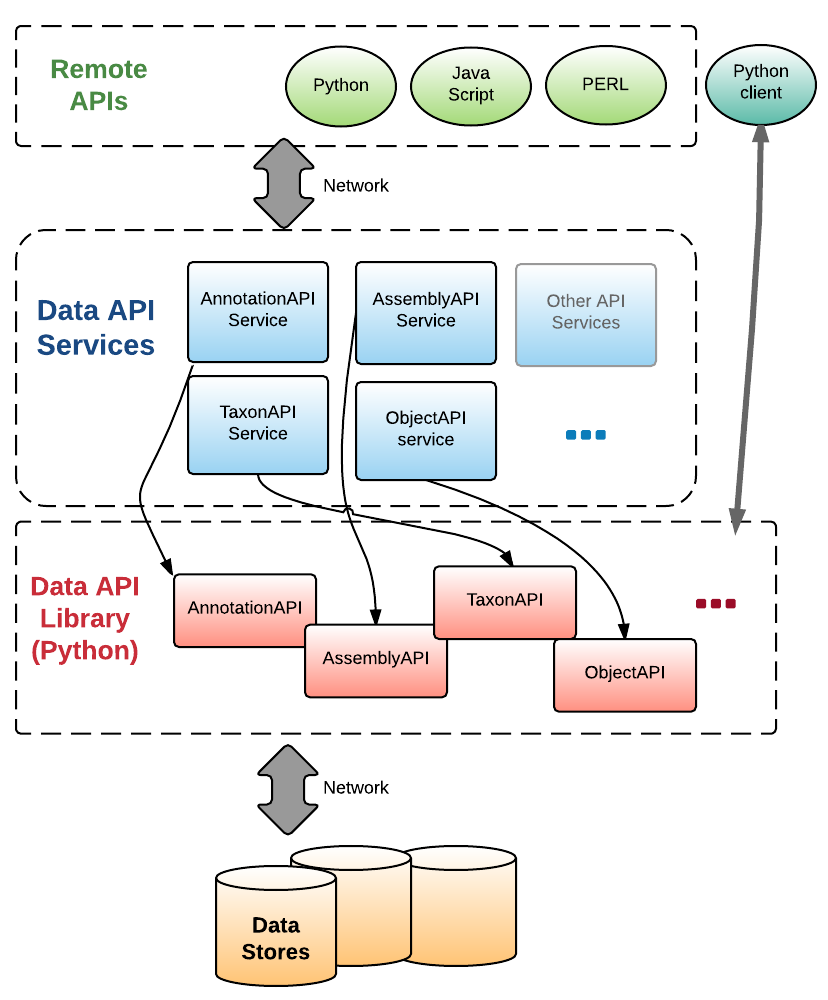
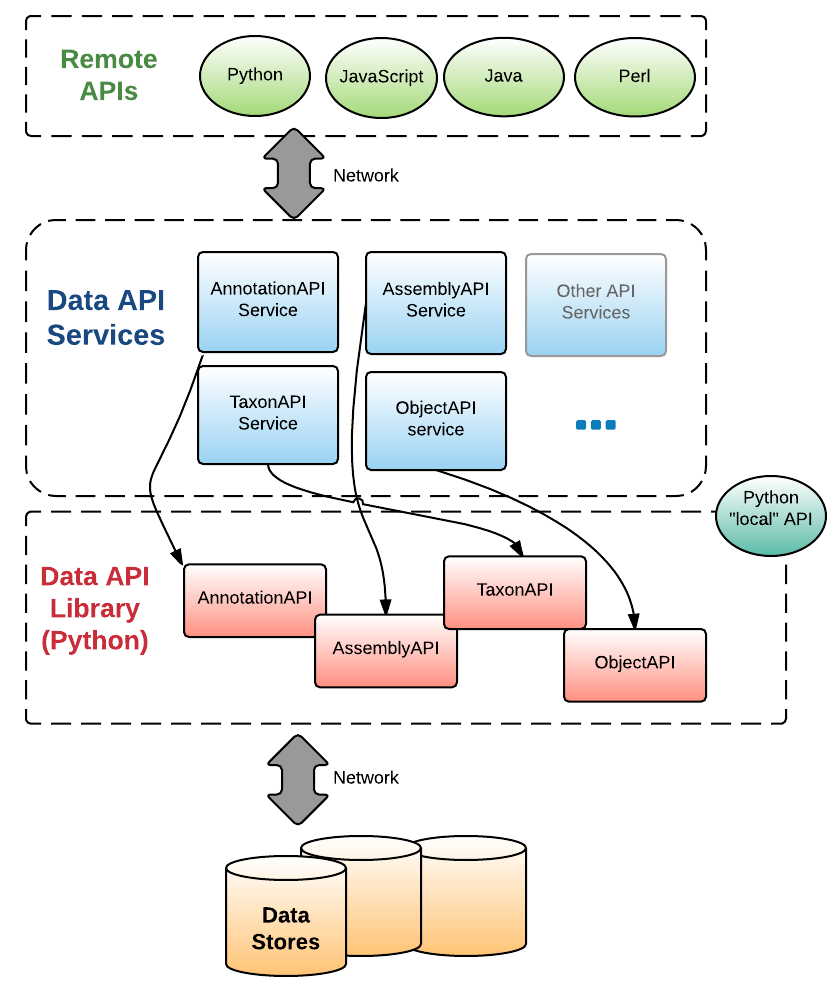
updated diagram and hello,world example

diff --git a/lib/doekbase/data_api/tests/examples/hello_world.py b/lib/doekbase/data_api/tests/examples/hello_world.py
@@ -1,0 +1,36 @@
+from doekbase.data_api.taxonomy.taxon.api import TaxonAPI
+from doekbase.data_api.sequence.assembly.api import AssemblyAPI
+
+# Set up to connect to KBase services
+auth_token = ""  # empty token is OK for public data
+services = {'workspace_service_url': 'http://ci.kbase.us/services/ws/'}
+
+if __name__ == '__main__':
+
+    #########
+    # Taxon #
+    #########
+
+    # Connect to the Taxon API
+    object_id = '993/616059/2'  # format -> workspace/object/version
+    obj = TaxonAPI(ref=object_id, services=services, token=auth_token)
+    # Retrieve some information from it
+    name = obj.get_scientific_name()
+    # Tell the world
+    print("Hello, World! Taxon {} is called {}".format(object_id, name))
+
+    ############
+    # Assembly #
+    ############
+
+    # Connect to the Assembly API
+    object_id = '1013/92/2'  # format -> workspace/object/version
+    obj = AssemblyAPI(ref=object_id, services=services, token=auth_token)
+    # Retrieve some information from it
+    info = obj.get_stats()
+    # Tell the world
+    info['oid'] = object_id
+    print("Hello, World! Assembly {oid} has the following statistics:\n"
+          "  GC content  : {gc_content}\n"
+          "  DNA size    : {dna_size}\n"
+          "  Num. contigs: {num_contigs}".format(**info))

diff --git a/docs/index.rst b/docs/index.rst
@@ -17,9 +17,7 @@ KBase Data API documentation
 ============================
 The Data API provides a unified entry point to retrieve and, eventually,
 store KBase data objects. This page covers concepts and installation instructions.
-For usage see the individual API pages for the :ref:`annotation_api`, :ref:`assembly_api` , and :ref:`taxon_api`.
-
-Developers should read the :ref:`developer_notes`.
+For usage, see the API pages for each data type: :ref:`annotation_api`, :ref:`assembly_api`, and :ref:`taxon_api`.
 
 .. Skip this for now: contents:: Contents
 
@@ -27,7 +25,7 @@ Developers should read the :ref:`developer_notes`.
 Concepts
 --------
 
-The Data API is multi-language, with the primary language implementation being Python. We are using Thrift to generate consistent language APIs in other languages. In all languages except Python, the implementation is a client/server, with a Python-based server and the other language as the client. The diagram below summarizes this design.
+The Data API is multi-language, with the library that implements all the behavior written in Python. We are using Thrift to generate consistent language APIs in other languages. For Python, you can import and use the library to connect directly to the data store. For other languages (and Python, too, if you choose), we use an RPC model, implemented as a thin layer of wrapper code around the Thrift-generated client to communicate with the Thrift-generated Data API `services`, which use the Python library to do its work. The diagram below summarizes this design.
 
 .. _overview_diagram:
 
@@ -70,10 +68,22 @@ Unpackage the download file, change into the top-level directory, then run the s
 
 Hello, World
 ------------
+Below is a simple example for each API.
+For detailed API documentation and more examples, see the object API pages for the :ref:`annotation_api`, :ref:`assembly_api` , and :ref:`taxon_api`.
 
-A simple hello, world example will be here "real soon now".
+Python
+^^^^^^
 
-For more examples, see the object API pages for the :ref:`annotation_api`, :ref:`assembly_api` , and :ref:`taxon_api`.
+.. literalinclude:: ../lib/doekbase/data_api/tests/examples/hello_world.py
+    :linenos:
+
+JavaScript
+^^^^^^^^^^
+Sorry, not ready yet.
+
+Perl
+^^^^
+Sorry, not ready yet.
 
 Indices and tables
 ==================
